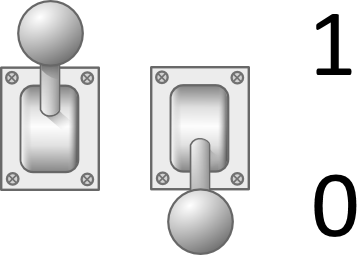
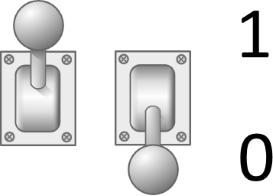
added a last example picture

diff --git a/_posts/komprimierung/2015-02-20-Bilder_komprimieren.md b/_posts/komprimierung/2015-02-20-Bilder_komprimieren.md
@@ -71,7 +71,16 @@ Bei einer Binärzahl darf man nur die Ziffer 0 und die Ziffer 1 verwenden. So im
 
 Bis zur Zahl **1** gibt es keinerlei Probleme. Ab der Zahl **2** jedoch, brauchen wir bei der Binärzahl eine weitere Stelle. Es sind ja nur die Ziffern 0 und 1 verwendbar. Ab der Dezimalzahl **4** und **8** brauchen wir jeweils eine weitere Stelle. Hier ist sicher nochmal gut zu sehen, dass bei einer Dezimalzahl 10 verschiedene Zeichen pro Stelle und bei einer Binärzahl immer nur 2 verschiedene Zeichen pro Stelle verwendet werden können. Man muss also bei Binärzahlen auch viel mehr Stellen nehmen, als in Dezimalzahlen, um die gleiche Zahl darzustellen.
 
-Legt man vorher die Anzahl der Stellen fest, wird damit auch die maximal mögliche Zahl festgelegt, die man darstellen kann. Sprich: Wenn ich vorgebe, dass man nur **3** Stellen im Binärsystem verwenden kann, dann ist die höchste darzustellende Zahl die **7** (Binär: 111). Die kleinste Zahl, die man darstellen kann ist dabei immer die 0. Mit 3 Bit lassen sich somit die 8 verschiedenen Zahlen 0,1,2,3,4,5,6 und 7 darstellen. **Mit einem Byte sind 8 Bits, also 8 Stellen in einem Binärsystem, gemeint**. Die höchste Zahl, die man mit **8** Bits darstellen kann, ist die **127** (Binär: 11111111). Mit 8 Bits lassen sich also 128 verschiedene Zahlen darstellen (Nicht die **0** vergessen!).
+Legt man vorher die Anzahl der Stellen fest, wird damit auch die maximal mögliche Zahl festgelegt, die man darstellen kann. Sprich: Wenn ich vorgebe, dass man nur **3** Stellen im Binärsystem verwenden kann, dann ist die höchste darzustellende Zahl die **7** (Binär: 111). Die kleinste Zahl, die man darstellen kann ist dabei immer die 0. Mit 3 Bit lassen sich somit die 8 verschiedenen Zahlen 0,1,2,3,4,5,6 und 7 darstellen. **Mit einem Byte sind 8 Bits, also 8 Stellen in einem Binärsystem, gemeint**. Die höchste Zahl, die man mit **8** Bits darstellen kann, ist die **255** (Binär: 11111111). Mit 8 Bits lassen sich also 256 verschiedene Zahlen darstellen (Nicht die **0** vergessen!).
+
+Hier ein Beispiel, wie mit 8 Hebeln, die Zahl 175 dargestellt werden kann.
+<figure style="text-align: center">
+	<img src="{{ site.url }}/images/Komprimierung/lever_10101111_example.png" />
+	<figcaption>
+		8 Hebeln, die die Zahl 175 darstellen. <br/>
+		Binär: 10101111
+	</figcaption>
+</figure>
 
 ## Weiter im Rechenbeispiel
 
